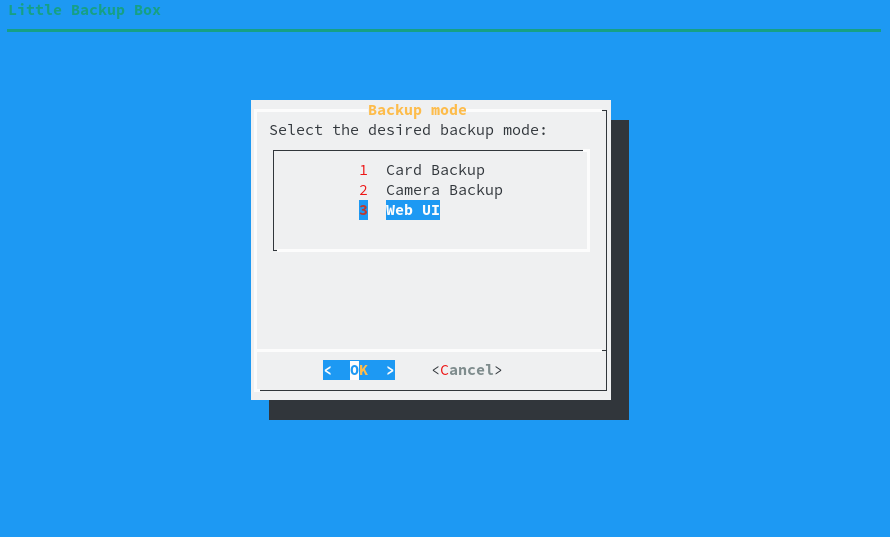
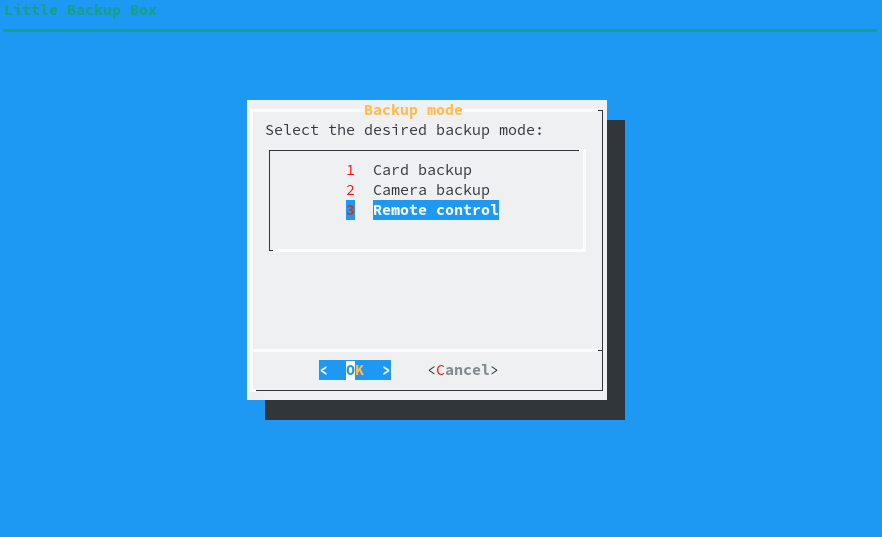
Web UI -> Remote control. Rename scripts

diff --git a/rc.py b/rc.py
@@ -18,11 +18,11 @@ import os
 
 @route('/')
 @route('/', method='POST')
-def control():
+def remote_control():
     if (request.POST.get("cardbackup")):
-            os.system("sudo /home/pi/little-backup-box/backup.sh")
+            os.system("sudo /home/pi/little-backup-box/card-backup.sh")
     if (request.POST.get("camerabackup")):
-            os.system("sudo /home/pi/little-backup-box/gphoto-backup.sh")
+            os.system("sudo /home/pi/little-backup-box/camera-backup.sh")
     if (request.POST.get("shutdown")):
             os.system("sudo shutdown -h now")
     return """

diff --git a/README.md b/README.md
@@ -16,7 +16,7 @@ Little Backup Box supports three backup modes:
 
 - **Card backup** Automatically backs up the contents of a storage card to an external storage device.
 - **Camera backup** Transfers photos, raw files, and videos from the camera connected directly to the Raspberry Pi. The transferred files are saved in the */home/pi/[CAMERA MODEL]* directory on the system storage card. **Important** Make sure that the camera is set to the MTP USB connection mode.
-- **Web UI** Simple web interface that allows you to manually choose one of the two modes described above.
+- **Remote control** Provides a simple web interface to manually choose one of the two modes described above.
 
 During the installation, choose the desired mode from the selection dialog.
 
@@ -26,7 +26,9 @@ When prompted, reboot the Raspberry Pi.
 
 ## Usage
 
-In the card backup mode:
+The exact backup steps depend on the backup mode.
+
+### Card backup mode
 
 1. Boot the Raspberry Pi
 2. Plug in a backup storage device
@@ -37,7 +39,7 @@ To geocorrelate the backed up photos, place a GPX file in the root of the storag
 
 **Note:** To differentiate between different storage cards, the backup script creates a datetime-based *.id* file in the root of each storage card. The name of the *.id* file is also used as the destination backup folder on the storage device.
 
-In the camera backup mode:
+### Camera backup mode
 
 1. Boot the Raspberry Pi
 2. Connect the camera to the Raspberry Pi
@@ -46,12 +48,12 @@ In the camera backup mode:
 
 Note that the direct camera file transfer script doesn't support geocorrelation.
 
-In the Web UI mode:
+### Remote control mode:
 
 1. Point the browser to *http://[IP-ADDRESS]:8080* (replace *[IP-ADDRESS]* with the actual IP address of the Raspberry Pi)
 2. Start the desired backup mode by pressing the appropriate button.
 
-<img src="webui.png" alt="" width="375"/>
+<img src="rc.png" alt="" width="375"/>
 
 ## Problems?
 
